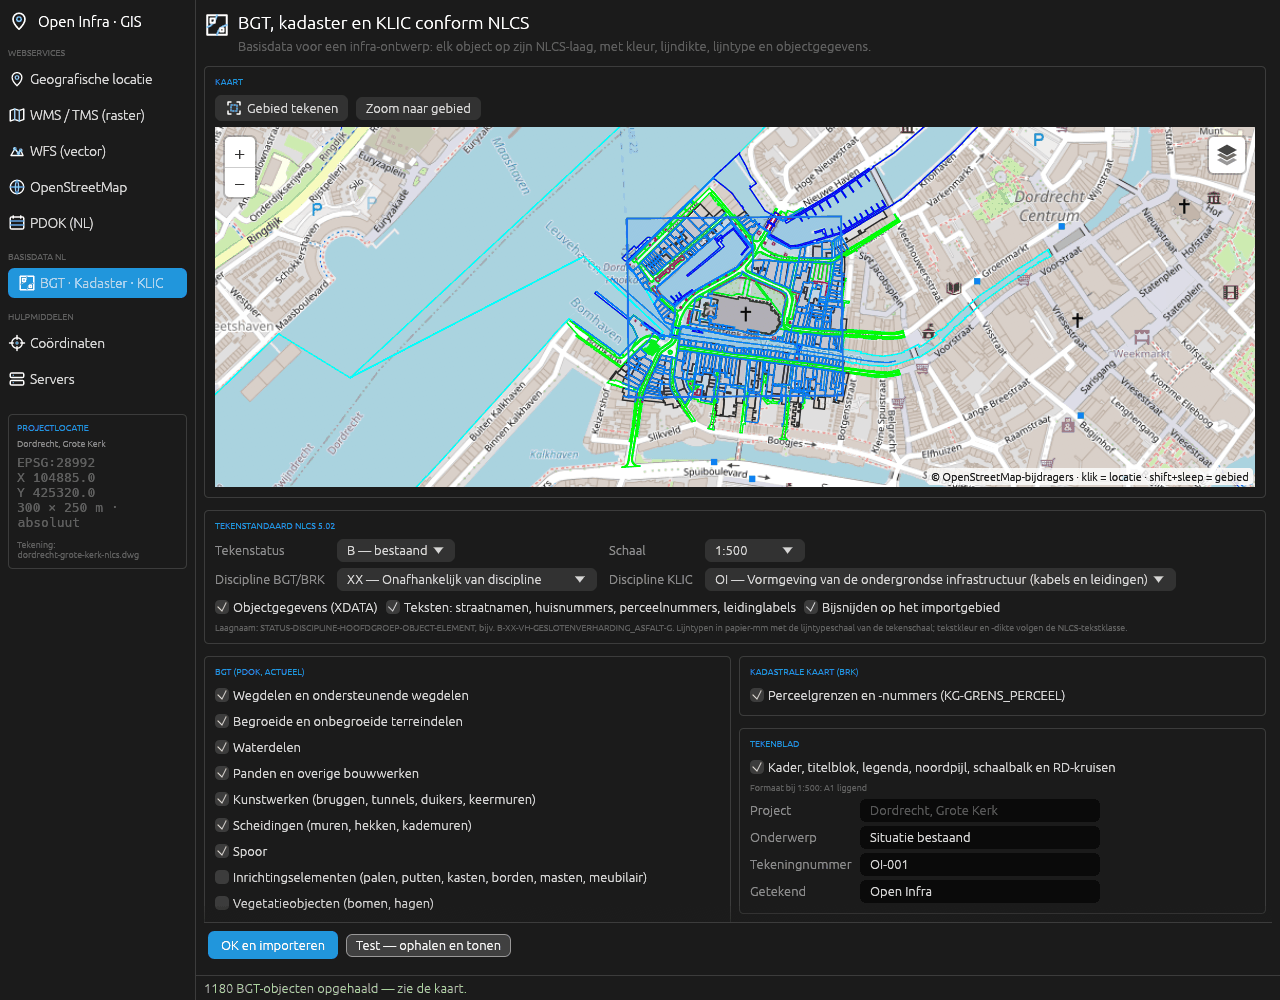
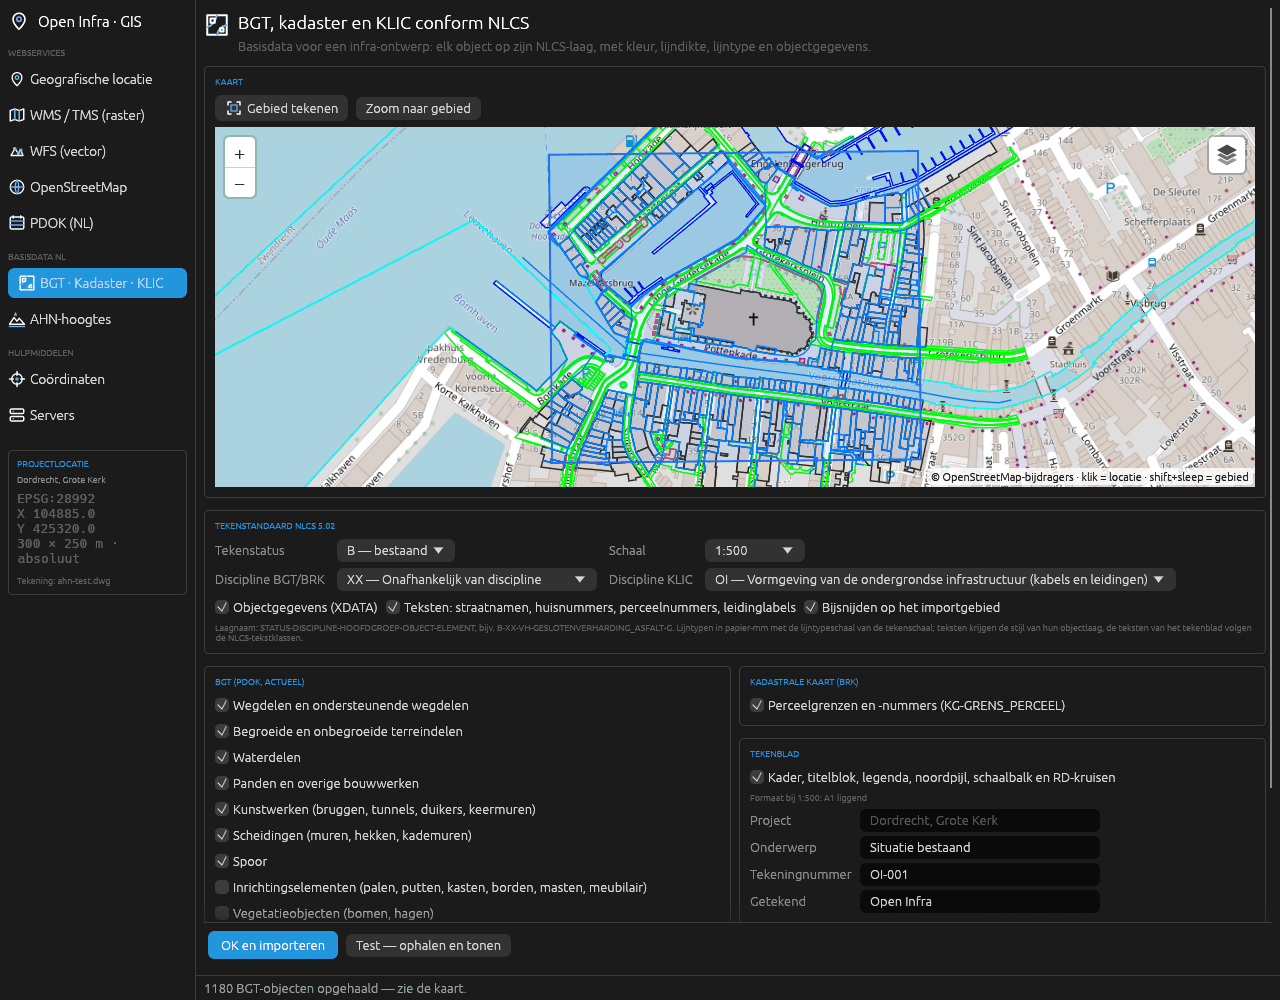
Release 2026.44: AHN heights, profiles and point clouds; new screenshots
- Version 2026.44.0, release notes for 2026.44
- README screenshots retaken with the new ribbon group "Hoogte (AHN)" and
  the workbench page "AHN-hoogtes" (with contour preview)

diff --git a/RELEASE_NOTES.md b/RELEASE_NOTES.md
@@ -1,11 +1,40 @@
-Open Infra — GIS-workbench en NLCS-basisdata voor **Open CAD Studio v2026.42** (plugin-API 10), voor infra en civiele techniek in Nederland en wereldwijd.
+Open Infra — GIS-workbench, NLCS-basisdata en AHN voor **Open CAD Studio v2026.42** (plugin-API 10), voor infra en civiele techniek in Nederland en wereldwijd.
 
-![Voorbeeld: situatie bestaand rond de Grote Kerk in Dordrecht, A1 1:500](https://raw.githubusercontent.com/OpenAEC-Foundation/Open-Infra/v2026.43/examples/dordrecht-nlcs/dordrecht-grote-kerk-nlcs.png)
+![Voorbeeld: situatie bestaand rond de Grote Kerk in Dordrecht, A1 1:500](https://raw.githubusercontent.com/OpenAEC-Foundation/Open-Infra/v2026.44/examples/dordrecht-nlcs/dordrecht-grote-kerk-nlcs.png)
 
 **Installeren:** in Open CAD Studio `PLUGINS` → *Add a repository* → `OpenAEC-Foundation/Open-Infra`. Installeer deze release en herstart.
 Handmatig kan ook: zet `openaec.open-infra-<platform>` en `plugin.toml` in `<config>/OpenCADStudio/plugins/openaec.open-infra/`.
 
-**Nieuw in 2026.43 — Basisdata NL conform NLCS**
+**Nieuw in 2026.44 — AHN-hoogtes, profielen en puntenwolk**
+
+![AHN5-puntenwolk in Open CAD Studio](https://raw.githubusercontent.com/OpenAEC-Foundation/Open-Infra/v2026.44/docs/images/ahn-pointcloud.png)
+
+- **Hoogtepunten:** AHN4-maaiveld (DTM) of -oppervlak (DSM) in een raster van 2 tot 100 m.
+  - Ze staan op `OG-HOOGTEPUNT`, met hoogtes als `+2,43` m NAP.
+- **Hoogtelijnen:** uit het AHN4-maaiveld.
+  - Interval naar keuze (0,1 – 5 m), met gelabelde hoofdlijnen op `OG-HOOGTELIJN_MINOR/MAJOR`.
+  - Licht gladgestreken en zonder snippers.
+  - Lijnen en punten liggen op hun hoogte (Z).
+- **Lengteprofiel** (`GIS_PROFIEL`):
+  - Selecteer een polyline of wijs punten aan, druk op Enter en wijs de plek van het profiel aan.
+  - Het profiel toont de maaiveldlijn (`GW-MAAIVELD`) en optioneel de oppervlaklijn (DSM), met een hoogteraster en NAP-labels.
+  - Een profielbalk geeft afstanden en hoogtes; de NAP-lijn verschijnt als die binnen het bereik valt.
+  - In de situatie komt doorsnedelijn A–A'.
+  - De overhoging is instelbaar.
+- **Puntenwolk** (`GIS_PUNTENWOLK`):
+  - AHN5 of AHN4 als COPC. Alleen het nodige deel van de tegels van 1 km² wordt gedownload, met een puntafstand naar keuze.
+  - Kleur naar klasse, hoogte of RGB, en een filter op klassen (maaiveld, gebouwen, water, kunstwerken, overig).
+  - De puntenwolk wordt opgeslagen als `.rcs` naast de tekening en gekoppeld; je ziet hem in een 3D-weergavestijl.
+- **Punt info** geeft nu ook de AHN-maaiveld- en oppervlakhoogte.
+- **Werkbank:** pagina *AHN-hoogtes* met **Test** (hoogtelijnen op de kaart). In het lint de groep *Hoogte (AHN)* met AHN, Hoogtepunten, Hoogtelijnen, Profiel en Puntenwolk.
+- **Nieuwe schermafbeeldingen** in de README.
+
+Data:
+- AHN4-hoogtegrids via de PDOK-WCS.
+- AHN4/AHN5-puntenwolken van Het Waterschapshuis.
+- Het AHN is open data (CC0).
+
+**Uit 2026.43 — Basisdata NL conform NLCS**
 
 Vanaf deze release volgen de versienummers de kalendernummering van Open CAD Studio. Release 2026.43 is gebouwd voor Open CAD Studio v2026.42.
 

diff --git a/README.md b/README.md
@@ -72,6 +72,8 @@ You choose the map background in a **Leaflet-style layer switcher** at the top r
 | ![Location page](docs/images/workbench-location.png) | ![WMS page with preview](docs/images/workbench-wms-preview.png) |
 | **Server presets**, Netherlands, Flanders and worldwide | **BGT · Kadaster · KLIC** with the BGT preview in NLCS colours |
 | ![Server list](docs/images/workbench-servers.png) | ![NLCS page](docs/images/workbench-nlcs.png) |
+| **AHN-hoogtes** with the contour preview (coloured by height) | **AHN5 point cloud** in Open CAD Studio (3D, by class) |
+| ![AHN page](docs/images/workbench-ahn.png) | ![AHN5 point cloud](docs/images/ahn-pointcloud.png) |
 
 ## Dutch base data conform NLCS
 
@@ -111,9 +113,9 @@ The NLCS tables and the official NLCS-BGT 5.0 mapping are built in from [`assets
   - Example: 300 × 250 m at 0.25 m spacing is about 1.4 million points and a 29 MB file.
 - **Punt info** also reports the AHN ground and surface height of the picked point.
 
-| Point cloud (AHN5, by class) with BGT and the drawing sheet | Length profile across the Grotekerksplein |
-|---|---|
-| ![AHN5 point cloud](docs/images/ahn-pointcloud.png) | ![Length profile](docs/images/ahn-profile.png) |
+Length profile across the Grotekerksplein: the ground line breaks at the harbour water and the buildings.
+
+![Length profile](docs/images/ahn-profile.png)
 
 ## Example drawing
 
@@ -203,7 +205,7 @@ Or install by hand:
 2. Put them in `<config>/OpenCADStudio/plugins/openaec.open-infra/`.
 3. Restart Open CAD Studio.
 
-Release numbers follow Open CAD Studio's calendar numbering. Release 2026.43 is built for Open CAD Studio v2026.42 (plugin API 10, opencadcodec `5d4f11a`, rustc 1.99.1). The host only loads a plugin built against its own opencadcodec revision and rustc.
+Release numbers follow Open CAD Studio's calendar numbering. Release 2026.44 is built for Open CAD Studio v2026.42 (plugin API 10, opencadcodec `5d4f11a`, rustc 1.99.1). The host only loads a plugin built against its own opencadcodec revision and rustc.
 
 ## Building
 
